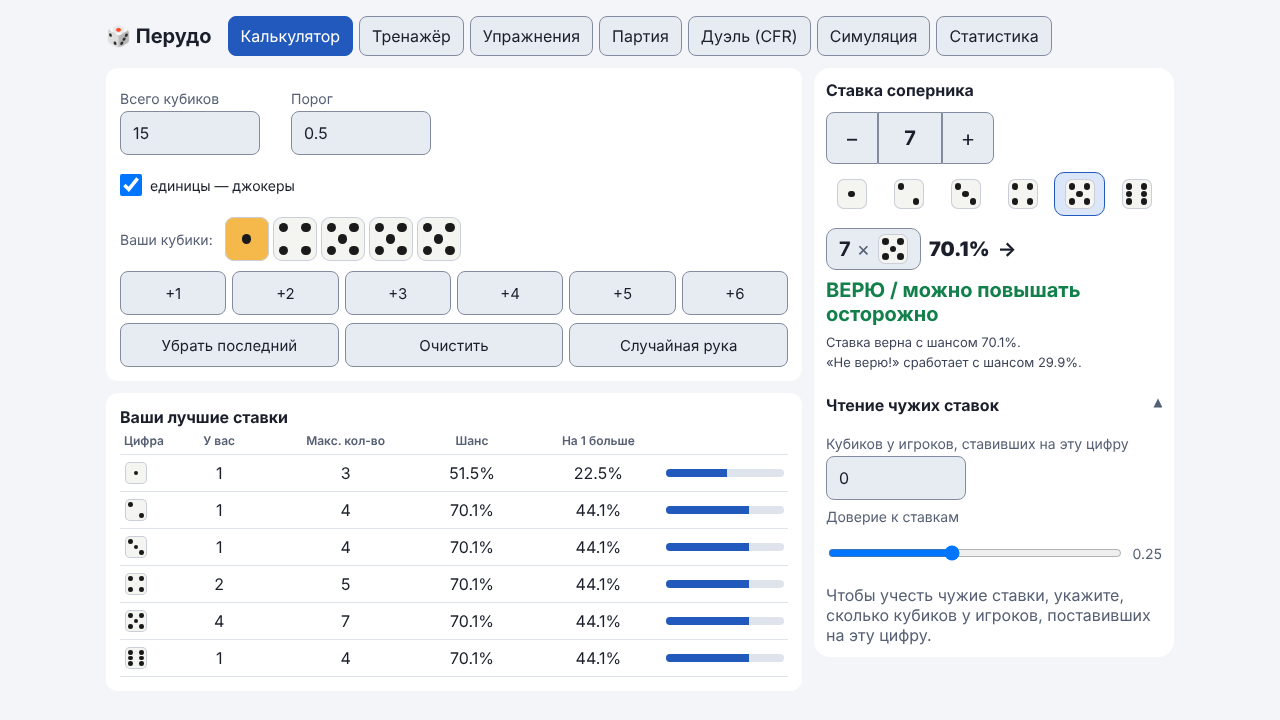
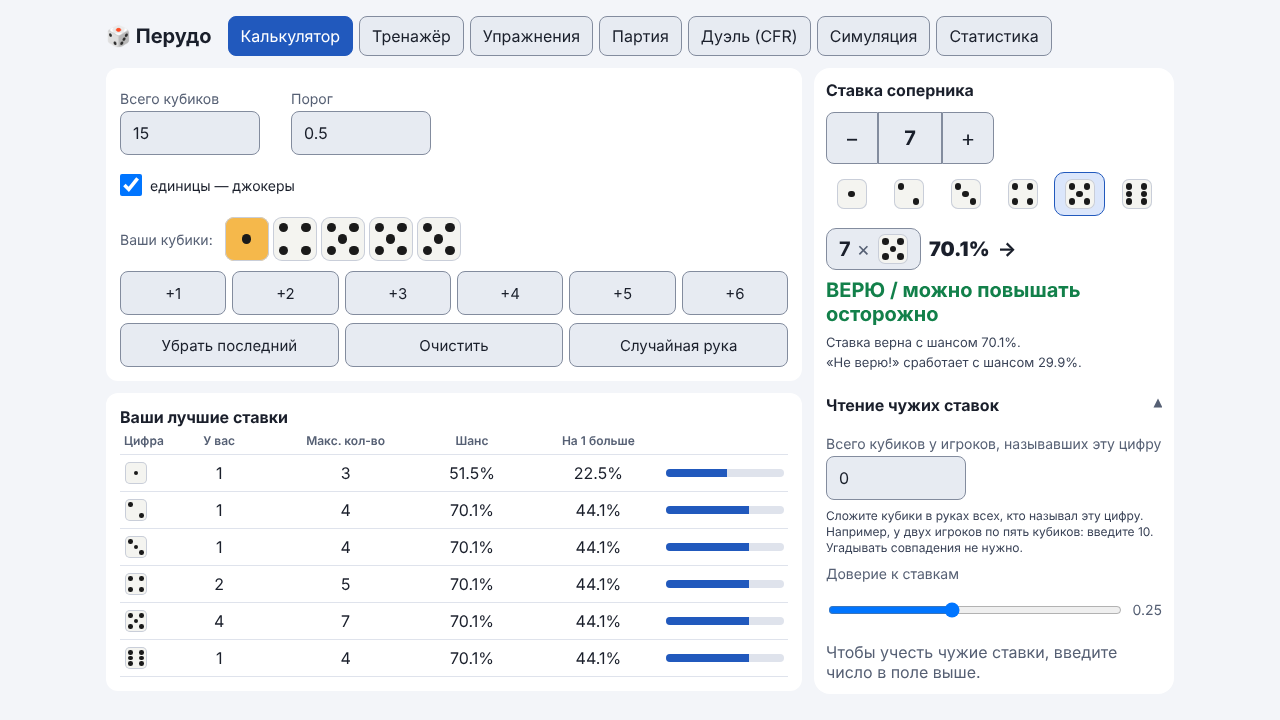
Калькулятор: пример к полю чтения ставок
Поле называется «Всего кубиков у игроков, называвших эту цифру», под ним
подсказка с примером (у двух игроков по пять кубиков вводим 10) и просьба
не угадывать совпадения. Исправлено описание поля в руководстве, где оно
допускало такое прочтение. Три снимка калькулятора обновлены. В план
отмечен пункт W1-04.

Changed region(s): [[0.625, 0.7028, 0.9062, 0.9472], [0.6562, 0.6111, 0.9062, 0.6417]]

diff --git a/tests/e2e/learning.spec.js b/tests/e2e/learning.spec.js
@@ -99,6 +99,20 @@ test.describe('Учебные вкладки', () => {
       await expect(page.locator('#cRead')).not.toHaveText(before);
     });
 
+    test('поле чтения ставок: подпись про размер рук, пример «10» и связь подсказки с полем', async ({ page }) => {
+      await open(page, 'calc');
+      const box = page.locator('#cReadBox');
+      if (!(await box.evaluate((el) => el.open))) await box.locator('summary').click();
+      await expect(page.locator('#cReadBox label.field').first()).toContainText('Всего кубиков у игроков, называвших эту цифру');
+      const hint = page.locator('#cKHint');
+      await expect(hint).toBeVisible();
+      await expect(hint).toContainText('введите 10');
+      await expect(hint).toContainText('Угадывать совпадения не нужно');
+      await expect(page.locator('#cK')).toHaveAttribute('aria-describedby', 'cKHint');
+      // пока поле пустое, под ним короткая просьба ввести число (подробности — в подсказке к полю)
+      await expect(page.locator('#cRead')).toContainText('введите число в поле выше');
+    });
+
     test('рука собирается кнопками «+», «Убрать последний» и «Очистить»', async ({ page }) => {
       await open(page, 'calc');
       const dice = page.locator('#cHand .die');

diff --git a/docs/guide/calculator.html b/docs/guide/calculator.html
@@ -41,7 +41,7 @@
         <thead><tr><th>Поле</th><th>Что значит</th></tr></thead>
         <tbody>
           <tr><td><strong>Порог</strong></td><td>Шанс, начиная с которого ставка считается правдоподобной. По умолчанию 0,5, то есть 50%. От порога зависит вердикт.</td></tr>
-          <tr><td><strong>Кубиков у игроков, ставивших на эту цифру</strong></td><td>Если соперники уже называли эту цифру, укажите, сколько кубиков у них, по вашему мнению, на ней. Появится вторая оценка «с учётом чтения ставок».</td></tr>
+          <tr><td><strong>Всего кубиков у игроков, называвших эту цифру</strong></td><td>Если соперники уже называли эту цифру, сложите все кубики в их руках, а не те, что, по вашему мнению, подходят. Например, у двух игроков по пять кубиков: введите 10. Появится вторая оценка «с учётом чтения ставок».</td></tr>
           <tr><td><strong>Доверие к ставкам</strong></td><td>Насколько сильно учитывать эту подсказку (по умолчанию 0,25).</td></tr>
         </tbody>
       </table>

diff --git a/index.html b/index.html
@@ -114,8 +114,9 @@
             <details class="dock-more" id="cReadBox">
               <summary>Чтение чужих ставок</summary>
               <div class="field-row">
-                <label class="field">Кубиков у игроков, ставивших на эту цифру
-                  <input id="cK" type="number" min="0" max="60" value="0" inputmode="numeric">
+                <label class="field">Всего кубиков у игроков, называвших эту цифру
+                  <input id="cK" type="number" min="0" max="60" value="0" inputmode="numeric" aria-describedby="cKHint">
+                  <small id="cKHint" class="field-hint">Сложите кубики в руках всех, кто называл эту цифру. Например, у двух игроков по пять кубиков: введите 10. Угадывать совпадения не нужно.</small>
                 </label>
                 <label class="field">Доверие к ставкам
                   <span class="range-line">

diff --git a/src/ui/calculator.js b/src/ui/calculator.js
@@ -99,8 +99,8 @@ export function setupCalculator() {
 
     if ($('#cRead')) {
       $('#cRead').innerHTML = kF > 0
-        ? `С учётом чтения ставок (${kF} куб. у ставивших на эту цифру, доверие ${tr.toFixed(2)}): <b class="${pr >= t ? 'text-ok' : 'text-bad'}">${pct(pr)}</b>`
-        : '<span class="muted">Чтобы учесть чужие ставки, укажите, сколько кубиков у игроков, поставивших на эту цифру.</span>';
+        ? `С учётом чтения ставок (${kF} куб. в руках у называвших эту цифру, доверие ${tr.toFixed(2)}): <b class="${pr >= t ? 'text-ok' : 'text-bad'}">${pct(pr)}</b>`
+        : '<span class="muted">Чтобы учесть чужие ставки, введите число в поле выше.</span>';
     }
 
     if ($('#cTbl')) {

diff --git a/src/css/learn.css b/src/css/learn.css
@@ -154,6 +154,16 @@
   gap: var(--space-2);
 }
 
+/* Подсказка под полем ввода */
+.field-hint {
+  display: block;
+  margin-top: 4px;
+  font-size: 12px;
+  font-weight: 400;
+  line-height: 1.35;
+  color: var(--text-soft);
+}
+
 /* Пояснение к проценту: две короткие строки под вердиктом */
 .calc-explain {
   flex: 1 0 100%;

diff --git a/tests/test_layout.py b/tests/test_layout.py
@@ -614,6 +614,27 @@ class LayoutTest(unittest.TestCase):
                 self.assertLessEqual(btn["y"] + btn["height"], h + 1, "кнопка ушла за нижний край экрана")
                 self.assertTrue(page.evaluate("document.documentElement.scrollWidth <= innerWidth"), "горизонтальная прокрутка")
 
+    def test_calc_read_hint_fits_inside_dock(self):
+        """Поле чтения ставок с подсказкой: внутри панели ставки, не шире неё, страница не ползёт вбок."""
+        for w, h in VIEWPORTS:
+            with self.subTest(w=w, h=h):
+                ctx = self.browser.new_context(viewport={"width": w, "height": h})
+                self.addCleanup(ctx.close)
+                page = ctx.new_page()
+                page.goto(self.url)
+                self.goto_tab(page, "calc")
+                box = page.locator("#cReadBox")
+                if not box.evaluate("el => el.open"):
+                    box.locator("summary").click()
+                hint = page.locator("#cKHint")
+                hint.scroll_into_view_if_needed()
+                hb, dock = hint.bounding_box(), page.locator("#cDock").bounding_box()
+                self.assertGreaterEqual(hb["x"], dock["x"] - 1)
+                self.assertLessEqual(hb["x"] + hb["width"], dock["x"] + dock["width"] + 1, "подсказка шире панели")
+                self.assertLessEqual(dock["y"] + dock["height"], h + 1, "панель ставки ушла за край экрана")
+                self.assertTrue(page.evaluate("document.documentElement.scrollWidth <= innerWidth"), "горизонтальная прокрутка")
+                self.assertGreaterEqual(page.locator("#cK").bounding_box()["height"], 44)
+
     def test_resizing_to_wide_closes_open_sheet(self):
         page = self.open_game(390, 844, 3)
         page.locator('.hud-tab-btn[data-open-tab="tabLog"]').click()

diff --git a/docs/dev/roadmap.md b/docs/dev/roadmap.md
@@ -4,7 +4,7 @@
 
 **Как вести файл.** Пункт выполнен, когда его патч применён и проверен: в строке меняется `[ ]` на `[x]` и в поле «Патч» ставится номер. Отметку делает тот же патч, который закрывает пункт. Тест `tests/roadmap.test.js` следит, чтобы ID не повторялись, у выполненных был номер патча, а счётчик ниже совпадал со списком.
 
-Выполнено: 4 из 25
+Выполнено: 5 из 25
 
 Формат строки: `- [ ] **ID** · размер (S, M, L) · название (замечания из отчёта) — критерий готовности. Патч: номер или —`.
 
@@ -17,7 +17,7 @@
 - [x] **W1-01** · M · Настоящий режим «Пошагово» и совет в FAQ (UX-06) — бот ходит только после кнопки игрока, остальные темпы не меняются; подпись в настройках и текст FAQ совпадают с поведением. Патч: 128
 - [x] **W1-02** · S · Кнопка итога «Разобрать партию» вместо «Перейти к расчёту» (UX-11) — название обещает то, что открывается; страница `game-review.html` и тесты обновлены. Патч: 129
 - [x] **W1-03** · S · Вероятность человеческим языком в калькуляторе (UX-04) — рядом с процентом видно: «Ставка верна — …%; проверка успешна — …%». Патч: 130
-- [ ] **W1-04** · S · Пример к полю чтения ставок (UX-16) — подпись объясняет, что вводится размер рук ставивших, а не ожидаемые совпадения. Патч: —
+- [x] **W1-04** · S · Пример к полю чтения ставок (UX-16) — подпись объясняет, что вводится размер рук ставивших, а не ожидаемые совпадения. Патч: 131
 - [ ] **W1-05** · S · Оговорка модели у «Хорошего решения» в Тренажёре (UX-15) — на экране сказано, что оценка идёт по шансу ставки, а не по выигрышу партии. Патч: —
 - [ ] **W1-06** · S · Вводная «Упражнений» перечисляет все три упражнения (UX-13) — есть ссылка на «Читай вскрытие». Патч: —
 - [ ] **W1-07** · S · Кнопки копии названы через цель (UX-17) — «Скачать резервную копию» и «Восстановить из файла», JSON вторым уровнем. Патч: —
